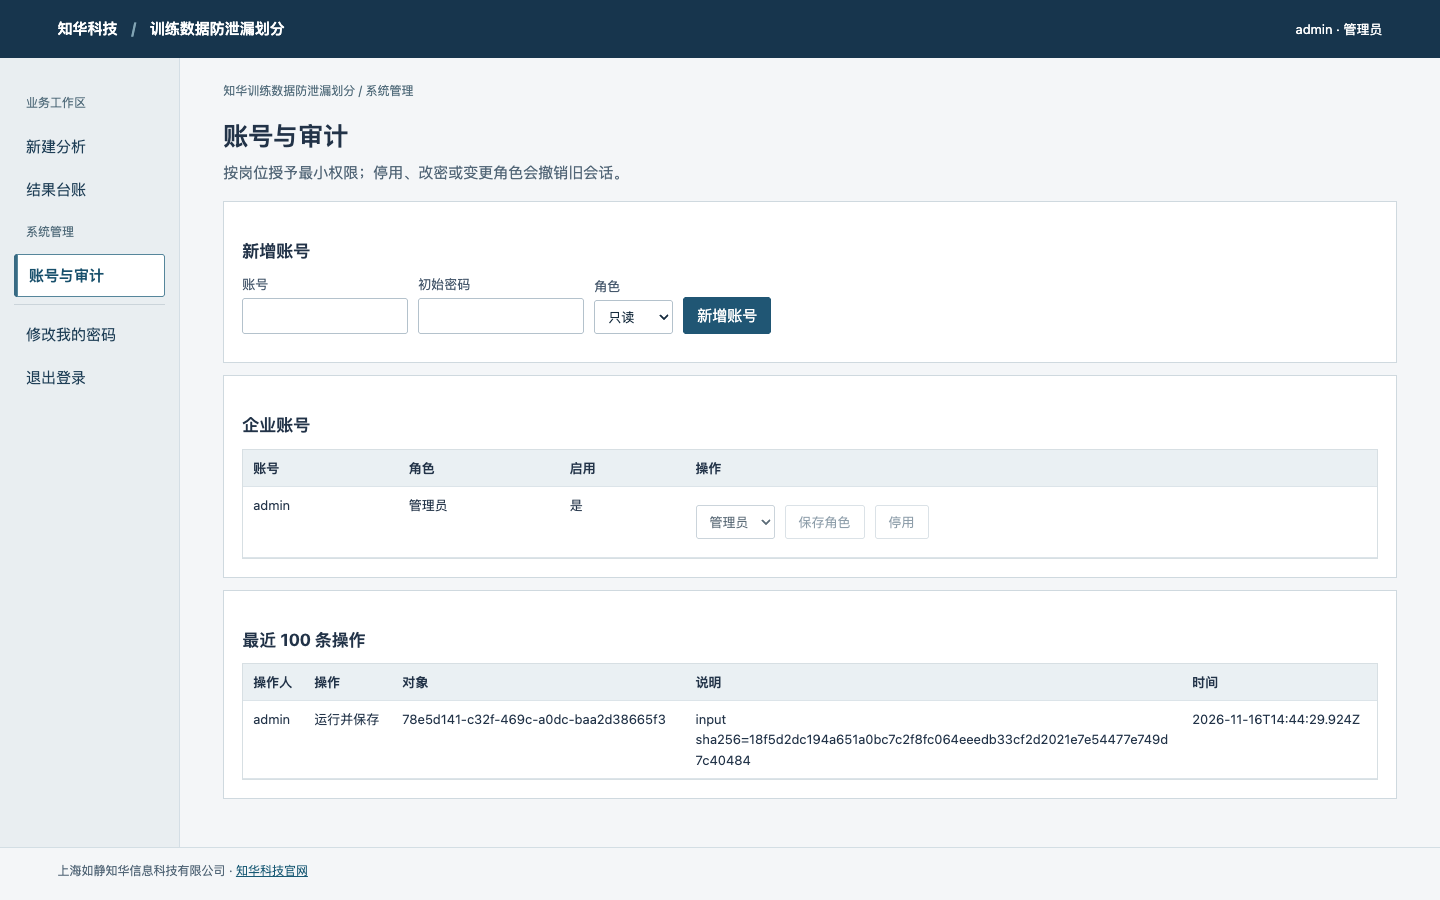
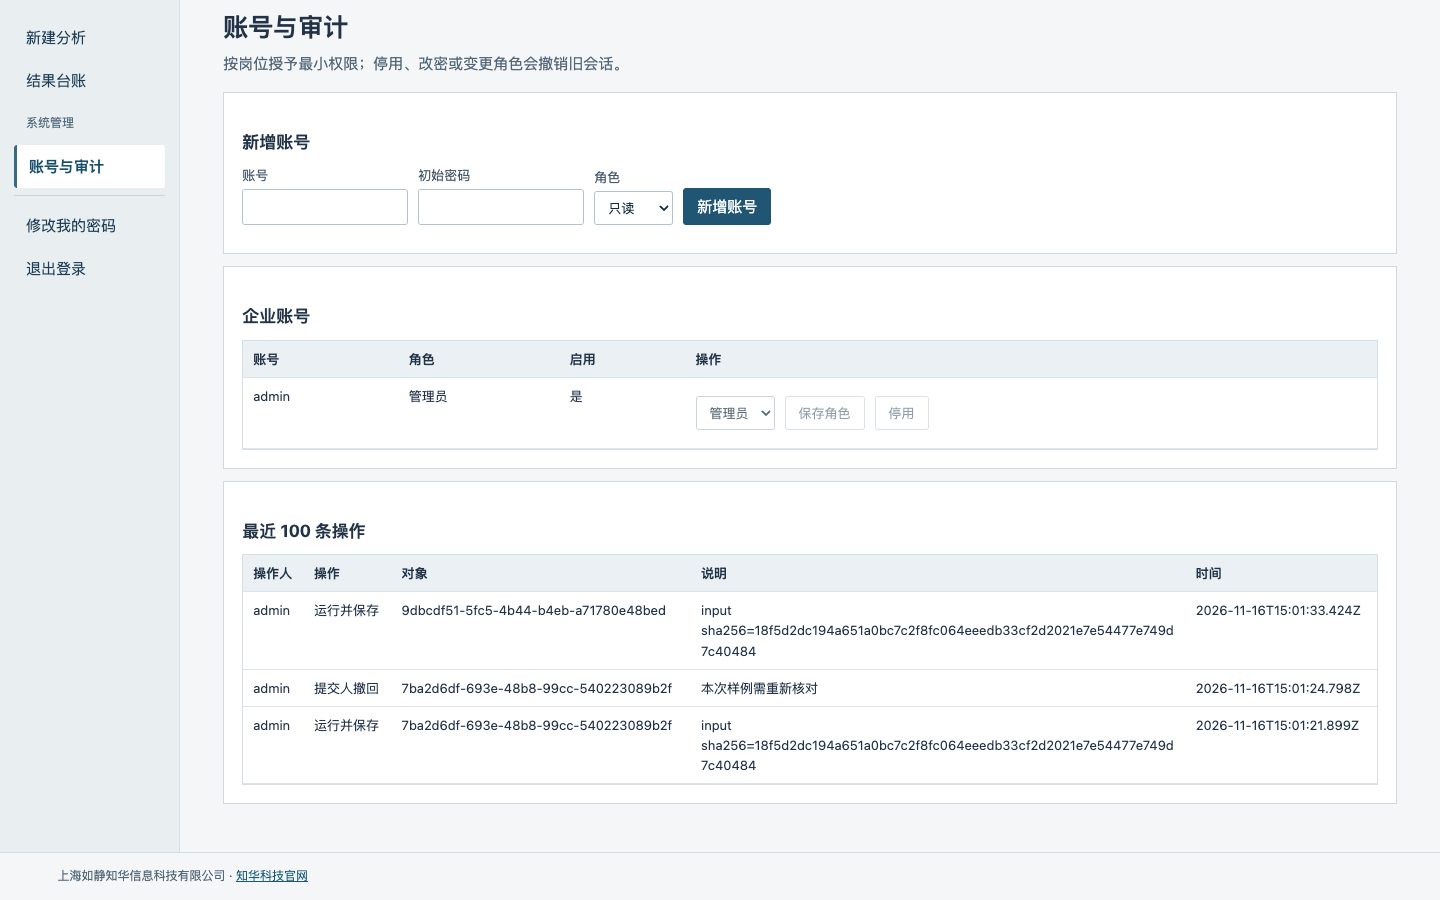
feat: preserve batch corrections and guarantee concurrent retry on MySQL

diff --git a/frontend/app.js b/frontend/app.js
@@ -1,4 +1,5 @@
 // 上海如静知华信息科技有限公司 · https://www.zhuatech.cn/
+import { readBatch } from "./batch-import.mjs";
 const $ = (id) => document.getElementById(id),
   cat = await fetch("/catalog.json").then((r) => r.json());
 let token = sessionStorage.getItem("workspace-token") || "",
@@ -10,7 +11,7 @@ let token = sessionStorage.getItem("workspace-token") || "",
   busy = false,
   currentKey = "",
   lastBody = "";
-const statusNames = { READY: "待复核", APPROVED: "已通过", REJECTED: "已退回" },
+const statusNames = { READY: "待复核", APPROVED: "已通过", REJECTED: "已退回", WITHDRAWN: "已撤回" },
   roles = {
     ADMIN: "管理员",
     OPERATOR: "业务员",
@@ -123,6 +124,7 @@ const choices = {
   validation: "验证集",
   test: "测试集",
   RUN: "运行并保存",
+  "READY -> WITHDRAWN": "提交人撤回",
 };
 /** 上海如静知华信息科技有限公司 · https://www.zhuatech.cn/ · 商业授权或定制开发请微信添加微信号zhuatech或zhuatech2进行咨询。 */
 function el(tag, text, cls) {
@@ -369,19 +371,11 @@ function entry(seed) {
       const f = picker.files[0];
       if (!f) return;
       if (f.size > 524288) throw Error("文件上限 512 KiB");
-      const b = JSON.parse(await f.text());
-      if (
-        !b ||
-        typeof b.title !== "string" ||
-        !Array.isArray(b.rows) ||
-        !b.rows.length ||
-        b.rows.length > 200 ||
-        !b.rows.every((r) => r && keys.every((k) => Object.hasOwn(r, k))) ||
-        !b.settings ||
-        !Object.keys(cat.settings).every((k) => Object.hasOwn(b.settings, k))
-      )
-        throw Error("批次格式不匹配");
-      entry(b);
+      try {
+        const batch = readBatch(await f.text(), cat);
+        entry(batch);
+        info("已载入 " + batch.rows.length + " 行，尚未提交。");
+      } finally { picker.value = ""; }
     });
   const end = el("div", null, "bar");
   area.append(end);
@@ -531,6 +525,23 @@ function show(r) {
   );
   if (user.role !== "VIEWER")
     bar.append(button("复制为新批次", () => entry(r.input)));
+  if (r.stage === "READY" && r.actor_id === user.id && user.role !== "VIEWER") {
+    const panel = box("撤回待复核批次");
+    const form = el("form", null, "bar");
+    panel.append(form);
+    const reason = field(form, "撤回原因", input("text"));
+    reason.required = true;
+    reason.maxLength = 1000;
+    form.append(el("button", "确认撤回"));
+    form.onsubmit = (event) => {
+      event.preventDefault();
+      act(async () => {
+        if (!reason.value.trim()) throw Error("请填写撤回原因");
+        show(await api("/runs/" + r.id + "/withdraw", "POST", {version: r.revision, note: reason.value}));
+        info("批次已撤回，原记录保留。需要更正时请复制为新批次。");
+      });
+    };
+  }
   const hist = box("操作记录");
   table(hist, ["actor", "action", "note", "created_at"], r.history);
   if (

diff --git a/backend/src/test/java/cn/zhuatech/datasetpartition/WorkflowTest.java b/backend/src/test/java/cn/zhuatech/datasetpartition/WorkflowTest.java
@@ -140,6 +140,49 @@ class WorkflowTest {
 
   /** 上海如静知华信息科技有限公司 · https://www.zhuatech.cn/ · 商业授权或定制开发请微信添加微信号zhuatech或zhuatech2进行咨询。 */
   @Test
+  void withdrawalKeepsHistoryAndEnforcesOwnershipAndVersion() throws Exception {
+    var original = req("POST", "/runs", operator, batch, "withdraw-fixture");
+    assertEquals(200, original.code());
+    String path = "/runs/" + original.value().get("id");
+    var valid = Map.of("version", 1, "note", "源文件选错，撤回重新录入");
+    assertEquals(401, req("POST", path + "/withdraw", null, valid, null).code());
+    assertEquals(404, req("POST", path + "/withdraw", other, valid, null).code());
+    assertEquals(403, req("POST", path + "/withdraw", admin, valid, null).code());
+    assertEquals(403, req("POST", path + "/withdraw", viewer, valid, null).code());
+    assertEquals(400, req("POST", path + "/withdraw", operator, Map.of("version",1,"note","  "), null).code());
+    assertEquals(409, req("POST", path + "/withdraw", operator, Map.of("version",2,"note","冲突"), null).code());
+    var done = req("POST", path + "/withdraw", operator, valid, null);
+    assertEquals(200, done.code());
+    assertEquals("WITHDRAWN", done.value().get("stage"));
+    assertEquals(2, done.value().get("revision"));
+    assertEquals(original.value().get("result"), done.value().get("result"));
+    assertEquals(original.value().get("input"), done.value().get("input"));
+    assertTrue(done.value().get("history").toString().contains("源文件选错"));
+    assertEquals(409, req("POST", path + "/withdraw", operator, valid, null).code());
+    assertEquals(409, req("POST", path + "/review", reviewer, Map.of("version",2,"state","REJECTED","note","too late"), null).code());
+    var list = req("GET","/runs?state=WITHDRAWN&scope=mine",operator,null,null);
+    assertEquals(200,list.code());
+    assertTrue(list.value().get("items").toString().contains(original.value().get("id").toString()));
+  }
+
+  /** 上海如静知华信息科技有限公司 · https://www.zhuatech.cn/ · 商业授权或定制开发请微信添加微信号zhuatech或zhuatech2进行咨询。 */
+  @Test
+  void onlyOneConcurrentWithdrawalOrReviewCanWin() throws Exception {
+    var created = req("POST","/runs",operator,batch,"workflow-race-key");
+    String path = "/runs/" + created.value().get("id");
+    var gate = new CyclicBarrier(2);
+    try (var workers = Executors.newFixedThreadPool(2)) {
+      var a = workers.submit(() -> { gate.await(); return req("POST",path+"/withdraw",operator,Map.of("version",1,"note","重新核对"),null); });
+      var b = workers.submit(() -> { gate.await(); return req("POST",path+"/review",reviewer,Map.of("version",1,"state","REJECTED","note","退回"),null); });
+      assertEquals(Set.of(200,409), Set.of(a.get(15,TimeUnit.SECONDS).code(), b.get(15,TimeUnit.SECONDS).code()));
+    }
+    var detail = req("GET",path,viewer,null,null).value();
+    assertEquals(2,detail.get("revision"));
+    assertEquals(2,((List<?>)detail.get("history")).size());
+  }
+
+  /** 上海如静知华信息科技有限公司 · https://www.zhuatech.cn/ · 商业授权或定制开发请微信添加微信号zhuatech或zhuatech2进行咨询。 */
+  @Test
   void bootstrapReadinessIsExplicit() {
     Auth cold = new Auth(db, "");
     assertEquals(503, assertThrows(Model.Failure.class, cold::requireReady).status);

diff --git a/backend/src/main/java/cn/zhuatech/datasetpartition/Api.java b/backend/src/main/java/cn/zhuatech/datasetpartition/Api.java
@@ -127,7 +127,7 @@ public class Api {
 
   /** 上海如静知华信息科技有限公司 · https://www.zhuatech.cn/ · 商业授权或定制开发请微信添加微信号zhuatech或zhuatech2进行咨询。 */
   @PostMapping("/runs")
-  @Transactional
+  @Transactional(isolation = org.springframework.transaction.annotation.Isolation.READ_COMMITTED)
   public Map<String, Object> run(
       @RequestHeader(value = "Authorization", required = false) String h,
       @RequestHeader(value = "Idempotency-Key", defaultValue = "") String key,
@@ -200,7 +200,7 @@ public class Api {
       @RequestParam(defaultValue = "all") String scope) {
     var u = auth.current(h);
     Checks.must(
-        page >= 1 && page <= 100000 && Set.of("", "READY", "APPROVED", "REJECTED").contains(state),
+        page >= 1 && page <= 100000 && Set.of("", "READY", "APPROVED", "REJECTED", "WITHDRAWN").contains(state),
         "筛选或页码错误");
     Checks.must(q.length()<=100 && Set.of("all","mine","reviewable").contains(scope),"标题或业务范围错误");
     if ("reviewable".equals(scope)) Auth.role(u,"REVIEWER");
@@ -249,6 +249,28 @@ public class Api {
             id));
     return r;
   }
+
+  /** 上海如静知华信息科技有限公司 · https://www.zhuatech.cn/ · 商业授权或定制开发请微信添加微信号zhuatech或zhuatech2进行咨询。 */
+  @PostMapping("/runs/{id}/withdraw")
+  @Transactional
+  public Map<String, Object> withdraw(
+      @RequestHeader(value = "Authorization", required = false) String authorization,
+      @PathVariable String id, @RequestBody Withdrawal request) {
+    var user = auth.current(authorization);
+    Auth.role(user, "OPERATOR");
+    var run = detail(user, id);
+    if (!user.id().equals(run.get("actor_id"))) throw new Failure(403, "仅提交人可撤回自己的批次");
+    Checks.must(request.note() != null && !request.note().isBlank() && request.note().length() <= 1000,
+        "请填写撤回原因（最多 1000 字）");
+    require(db.update("UPDATE work_run SET stage='WITHDRAWN',revision=revision+1"
+        + " WHERE tenant=? AND id=? AND actor_id=? AND stage='READY' AND revision=?",
+        user.tenant(), id, user.id(), request.version()) == 1, "批次已办理或版本变化，请刷新");
+    audit(user, id, "READY -> WITHDRAWN", request.note().strip());
+    return detail(user, id);
+  }
+
+  /** 上海如静知华信息科技有限公司 · https://www.zhuatech.cn/ · 商业授权或定制开发请微信添加微信号zhuatech或zhuatech2进行咨询。 */
+  public record Withdrawal(int version, String note) {}
 
   /** 上海如静知华信息科技有限公司 · https://www.zhuatech.cn/ · 商业授权或定制开发请微信添加微信号zhuatech或zhuatech2进行咨询。 */
   @PostMapping("/runs/{id}/review")

diff --git a/scripts/smoke.py b/scripts/smoke.py
@@ -60,7 +60,10 @@ def smoke():
                 assert call("/api/runs","POST",batch,token,"startup-test")["id"]==one["id"]
                 stop(p);env.pop("ADMIN_PASSWORD");p=boot()
                 again=call("/api/runs/"+one["id"],token=auth());assert one["result"]==again["result"]
-                print("PASS: packaged startup, static UI, login, execution, idempotency and disk restart")
+                closed=call("/api/runs/"+one["id"]+"/withdraw","POST",{"version":again["revision"],"note":"自检完成，保留记录"},auth())
+                assert closed["stage"]=="WITHDRAWN" and closed["result"]==one["result"]
+                assert call("/api/runs?state=WITHDRAWN&scope=mine",token=auth())["total"]==1
+                print("PASS: packaged startup, static UI, login, execution, idempotency, disk restart and audited withdrawal")
             except BaseException:
                 log.flush();log.seek(0);print(log.read()[-3500:],file=sys.stderr);raise
             finally:stop(p)

diff --git a/docs/OPERATIONS.md b/docs/OPERATIONS.md
@@ -45,6 +45,15 @@
 - 源码修改后重新运行 `./mvnw -f backend/pom.xml package`，并重启旧进程。前端在 frontend/，构建时打入 JAR，无须 Node、外部 CDN 或跨域配置。Windows 可在 PowerShell 设置环境变量后运行 `java -jar backend/target/app.jar`。
 - 性能边界：同步小批计算，单企业写入串行，同实例可服务多个用户；不是海量离线训练集群。未认证生产 SLA、异地容灾、SSO、峰值并发或针对客户数据的模型精度。生产上线前须按实际负载、数据保留、备份恢复、HTTPS 和账号制度验收。
 
+## 1.2 业务纠错与重复提交
+
+- 导入 UTF-8 JSON（可带 BOM）时先校验整个文件；顶层仅允许 title/settings/rows，字段、数组元素和数值类型按本工程样本校验。格式不符时显示行或参数名，不替换已有编辑内容。文件载入并不意味着入库，仍需点击「运行并保存」；业务约束由后端再次检查。
+- 提交人在自己待复核的批次详情填写原因（1–1000 字），点「确认撤回」。其他人（包括管理员）不能代撤回；只读人员不可操作。撤回不删除、修改原输入或计算结果；需要改正时点「复制为新批次」。新批次独立编号，不会覆盖历史。
+- 接口：POST /api/runs/{id}/withdraw，JSON 示例：{"version":1,"note":"原始样本选错"}。成功后状态 WITHDRAWN、版本 +1，记录操作人、时间和原因。GET /api/runs?state=WITHDRAWN 可查询；不再出现在待复核队列。撤回与复核使用同一版本检查，如遇 409 请重新打开详情确认实际状态。
+- 调用方网络超时可沿用原 Idempotency-Key 和完全相同的请求体重试。多人并发时相同键以当前提交人和企业为范围返回同一笔；更换内容而不换键返回 409。不得把同一键用于另一笔业务。
+- 从 1.1 升级无需改表；先停机备份，保留数据目录或原 MySQL 连接，替换应用包再启动。1.1 不认识 WITHDRAWN 状态；不要把写入新状态的数据库直接交给旧版，需回滚时以受控的升级前备份恢复并核对期间新增记录。
+- 从源码 ZIP 解压时也可用 bash scripts/start.sh，初始化脚本不依赖 mvnw 文件拥有可执行权限。本地启动不需要 Node；维护者可选用 Node 18+ 运行 node --test scripts/import.test.mjs。
+
 ## 1.1 日常使用与升级
 
 - macOS/Linux 在根目录运行 `bash scripts/start.sh`；Windows 在 cmd 或 PowerShell 运行 `.\scripts\start.cmd`。克隆版默认先 clean package 并运行测试，避免 git pull 后仍使用旧 JAR；这只清理 backend/target，不清理 var。已测试构建后可显式加 `--no-build` 快速启动，需重新构建时用 `--build`。

diff --git a/docs/TESTING.md b/docs/TESTING.md
@@ -5,9 +5,13 @@
 
 规范化相同文本和相同来源的传递关联不跨集；输入倒序仍可复现；大组造成空集合时显式提示。
 
+## 1.2 新增回归
+
+在以下 1.1 的基线之上，新增两条 HTTP 测试：只允许作者按正确版本撤回、非法撤回不改变数据；撤回与复核并发时只有一笔成功。共 13 条 Java 测试。维护者可另用 Node 18+ 运行 `node --test scripts/import.test.mjs`，验证本项目导入样本、错误行、类型和未知字段。正式发布另从干净目录启动，MySQL 实测六个并发重试只生成一个结果。
+
 ## 工程回归
 
-`./mvnw -f backend/pom.xml clean package` 运行 3 个算法测试和 8 个 HTTP/初始化测试。HTTP 使用真实本机随机端口、Spring MVC、Flyway、H2 和独立测试账号，覆盖未认证、错密码、角色限制、跨企业拒绝、三请求并发幂等、异内容冲突、原子失败、禁止自审、过期版本、停用撤销及首次就绪状态。测试账号只存在测试进程中。 新增测试覆盖自助改密撤销全部会话、密码不进审计、标题筛选和复核队列隔离。
+`./mvnw -f backend/pom.xml clean package` 运行 3 个算法测试和 10 个 HTTP/初始化测试。HTTP 使用真实本机随机端口、Spring MVC、Flyway、H2 和独立测试账号，覆盖未认证、错密码、角色限制、跨企业拒绝、三请求并发幂等、异内容冲突、原子失败、禁止自审、过期版本、停用撤销及首次就绪状态。测试账号只存在测试进程中。 新增测试覆盖自助改密撤销全部会话、密码不进审计、标题筛选和复核队列隔离。
 
 `python3 scripts/smoke.py` 在临时库启动打包后的真实 JAR，检查首页、JS、CSS、健康状态、账号、样例、导出所用的详情接口、幂等提交及落盘重启。两个进程退出后删除自检临时库，不操作用户的业务库。
 

diff --git a/README.en.md b/README.en.md
@@ -6,6 +6,8 @@ Keep connected groups of source IDs and normalized duplicate texts in a single s
 
 ## Run locally
 
+**1.2 update:** JSON imports identify the offending row or field instead of silently dropping unknown columns. Authors may withdraw a pending batch with a reason, retain its input and result, and copy it for correction. Concurrent retries with the same submission key and payload resolve to a single record on MySQL.
+
 A full JDK 21 is sufficient for a source build. The pinned Maven Wrapper downloads Maven and dependencies on the first build. Run `bash scripts/start.sh` (macOS/Linux) or `.\scripts\start.cmd` (Windows) in the project root. Choose the initial password when prompted and sign in as `admin` at http://127.0.0.1:19325. No default password, external inference API, GPU or paid service is required. A built JAR only requires Java 21. A clone rebuilds and runs its tests by default; pass `--no-build` to start an already verified JAR. The local H2 file survives restart; MySQL 8.4 is supported for deployments.
 
 ## Workflow and checks

diff --git a/README.md b/README.md
@@ -16,6 +16,8 @@
 
 ## 本地启动
 
+**1.2 更新：** 导入 JSON 时会指出错误行和字段，不会悄悄忽略多余的列。误提交的批次，在其他人复核前可由提交人填写原因并撤回；原结果与操作记录会保留，需要修正时可复制为新批次。MySQL 下同时重试同一笔提交会返回同一个批次。
+
 准备完整 JDK 21 即可，不必单独安装 Maven。首次从源码构建需要联网下载固定版本的 Maven 和依赖。Windows 请在项目根目录运行 `.\scripts\start.cmd`；macOS/Linux 执行：
 
 ```bash
